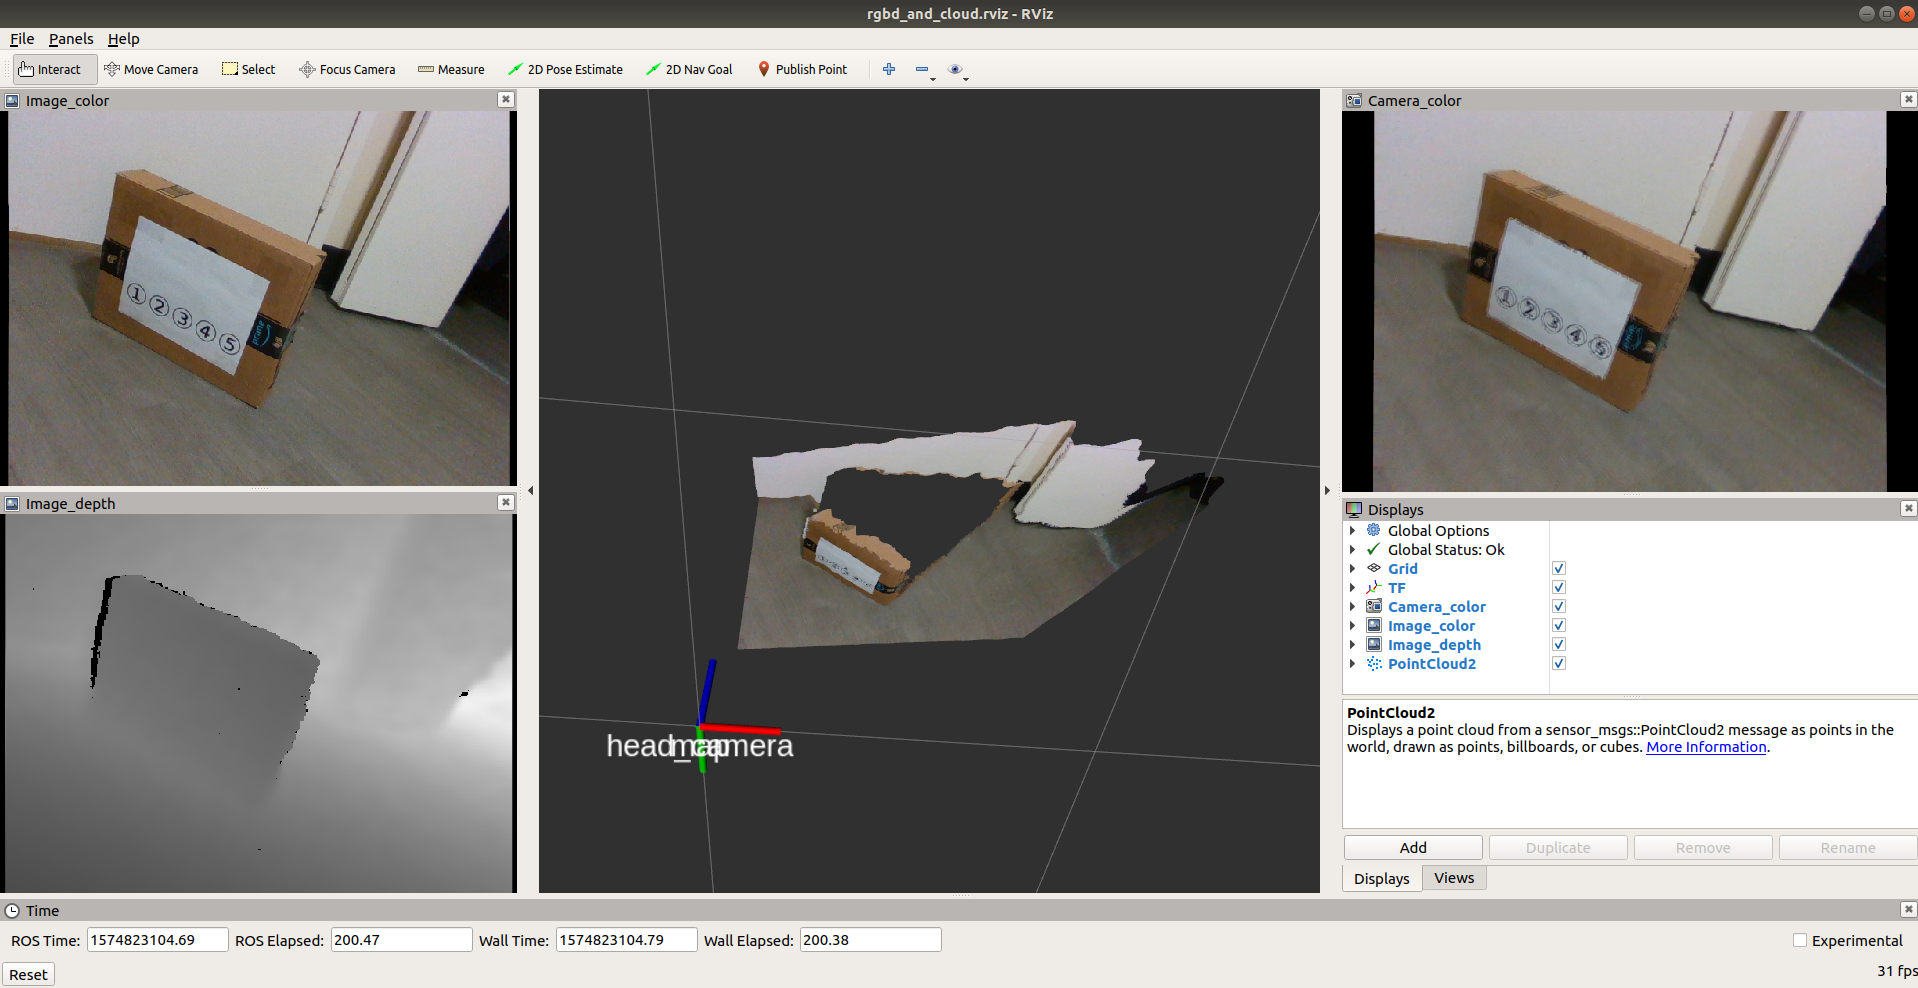
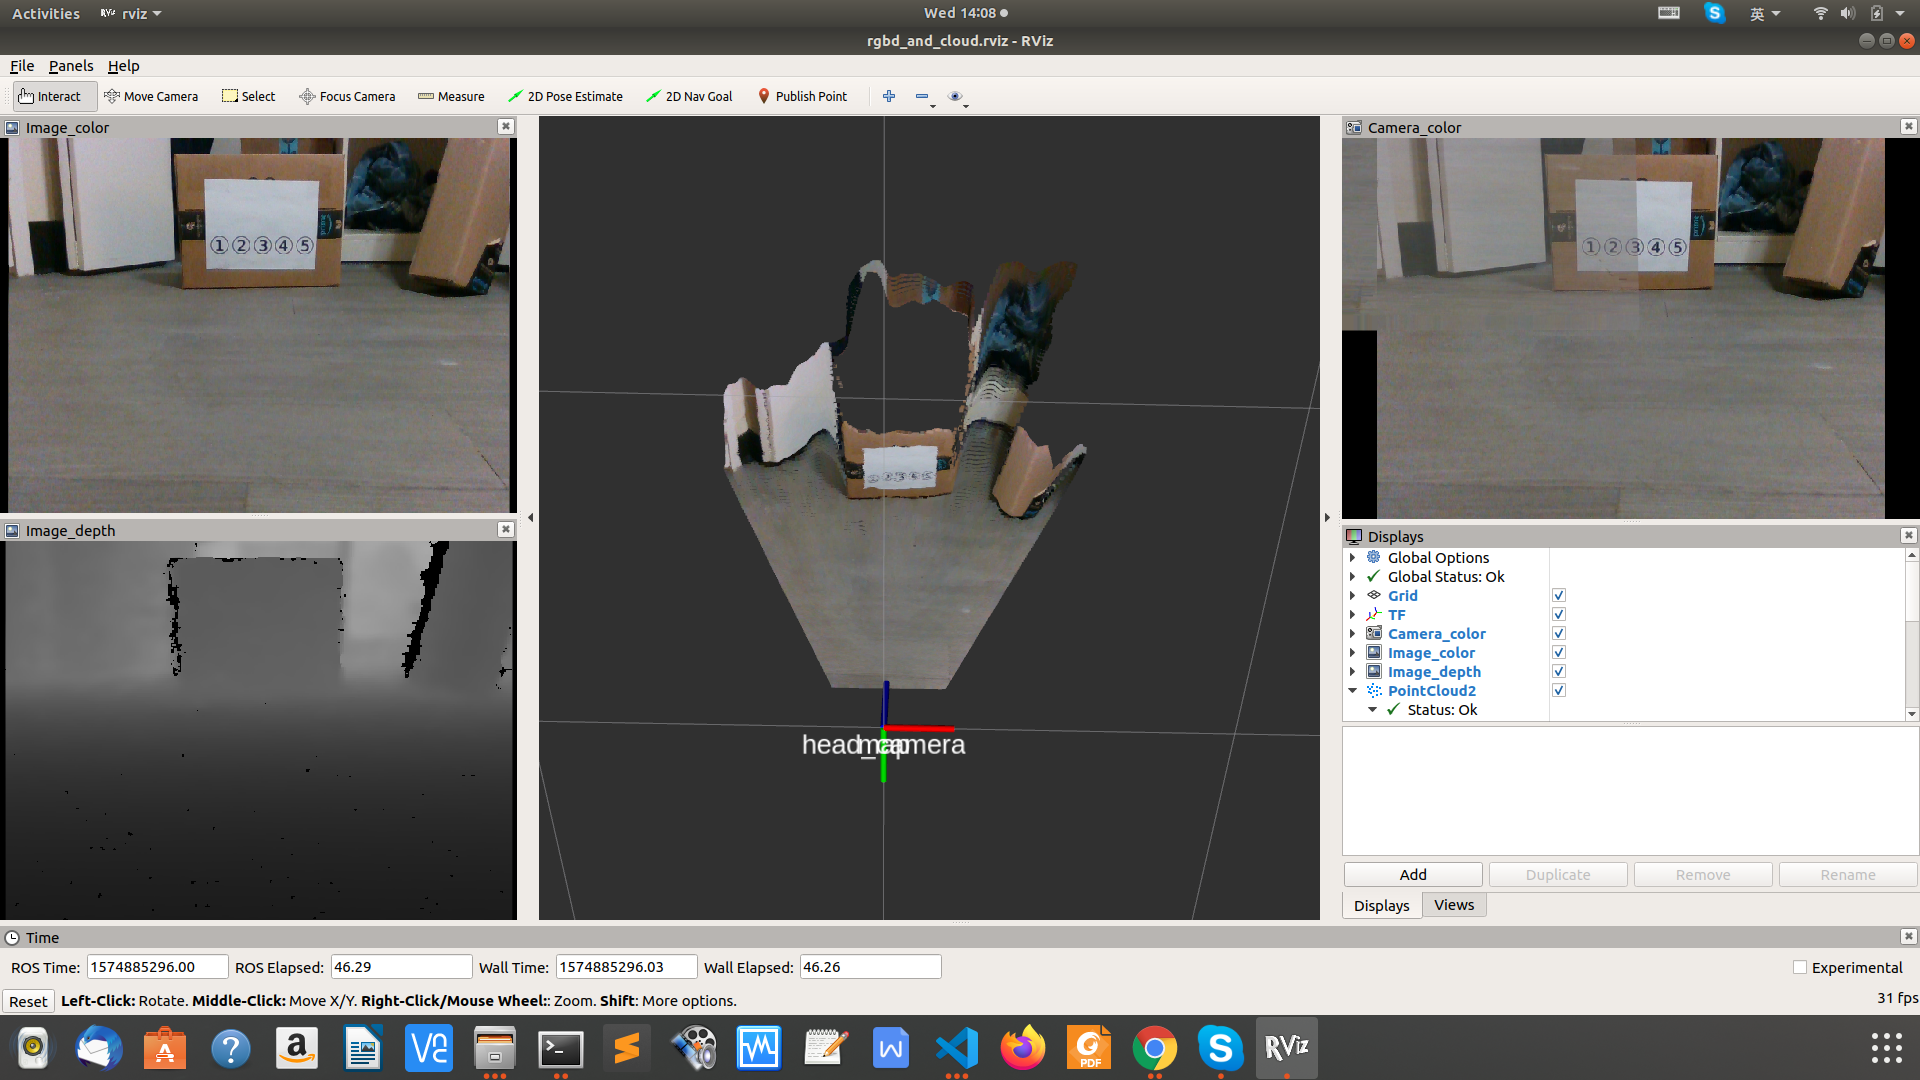
Fixed camera info bug.

diff --git a/utils/lib_rgbd.py b/utils/lib_rgbd.py
@@ -9,12 +9,31 @@ import simplejson
 import open3d
 
 
+
+
 class MyCameraInfo():
+
     def __init__(self, camera_info_json_file_path):
         data = read_json_file(camera_info_json_file_path)
-        self._width = data["width"]  # float
-        self._height = data["height"]  # float
-        self._intrinsic_matrix = data["intrinsic_matrix"]  # list of float
+        self._width = int(data["width"])  # int.
+        self._height = int(data["height"])  # int.
+        self._intrinsic_matrix = data["intrinsic_matrix"]  # list of float.
+        # The list extracted from the matrix **column by column** !!!.
+        # If the intrinsic matrix is:
+        # [fx,  0, cx],
+        # [ 0, fy, cy],
+        # [ 0,  0,  1],
+        # Then, self._intrinsic_matrix = [fx, 0, 0, 0, fy, 0, cx, cy, 1]
+
+    def resize(self, ratio):
+        r0, c0 = self._height, self._width
+        if not (is_int(r0*ratio) and is_int(c0*ratio)):
+            raise RuntimeError(
+                "Only support resizing image to an interger size.")
+        self._width = int(ratio * self._width)
+        self._height = int(ratio * self._height)
+        self._intrinsic_matrix[:-1] = [x*ratio
+                                       for x in self._intrinsic_matrix[:-1]]
 
     def width(self):
         return self._width
@@ -25,22 +44,25 @@ class MyCameraInfo():
     def intrinsic_matrix(self):
         return self._intrinsic_matrix
 
-    def to_open3d_format(self):
-        ''' Convert camera info to open3d format.
-        See `class open3d.camera.PinholeCameraIntrinsic`
-        at: http://www.open3d.org/docs/release/python_api/open3d.camera.PinholeCameraIntrinsic.html#open3d.camera.PinholeCameraIntrinsic
-
+    def get_cam_params(self):
+        ''' Get all camera parameters. 
         Notes: intrinsic_matrix:
-            0: fx, 1   0, 2:  cx
-            3:  0, 4: fy, 5:  cy
-            6:  0, 7   0, 8:   1
+            [0]: fx, [3]   0, [6]:  cx
+            [1]:  0, [4]: fy, [7]:  cy
+            [2]:  0, [5]   0, [8]:   1
         '''
         im = self._intrinsic_matrix
+        row, col = self._height, self._width
+        fx, fy, cx, cy = im[0], im[4], im[6], im[7]
+        return row, col, fx, fy, cx, cy
+
+    def to_open3d_format(self):
+        ''' Convert camera info to open3d format of `class open3d.camera.PinholeCameraIntrinsic`.
+        Reference: http://www.open3d.org/docs/release/python_api/open3d.camera.PinholeCameraIntrinsic.html
+        '''
+        row, col, fx, fy, cx, cy = self.get_cam_params()
         open3d_camera_info = open3d.camera.PinholeCameraIntrinsic(
-            width=self._width,
-            height=self._height,
-            fx=im[0], fy=im[4],
-            cx=im[2], cy=im[5])
+            col, row, fx, fy, cx, cy)
         return open3d_camera_info
 
 

diff --git a/pub_rgbd_and_cloud.py b/pub_rgbd_and_cloud.py
@@ -2,7 +2,7 @@
 # -*- coding: utf-8 -*-
 
 import utils.lib_commons as lib_commons
-from utils.lib_cv import MyCameraInfo, create_open3d_point_cloud_from_rgbd
+from utils.lib_rgbd import MyCameraInfo, create_open3d_point_cloud_from_rgbd
 
 from utils.lib_ros_rgbd_pub_and_sub import ColorImagePublisher, DepthImagePublisher, CameraInfoPublisher
 from utils.lib_ros_point_cloud_pub_and_sub import PointCloudPublisher

diff --git a/utils/lib_ros_rgbd_pub_and_sub.py b/utils/lib_ros_rgbd_pub_and_sub.py
@@ -126,7 +126,7 @@ class CameraInfoPublisher():
                 (3) intrinsic_matrix
         Arguments:
             intrinsic_matrix {1D list or 2D list}: 
-                If 1D list, the data order is: row1, row2, row3.
+                If 1D list, the data order is: column1, column2, column3.
         '''
         # -- Set camera info.
         camera_info = self._default_camera_info
